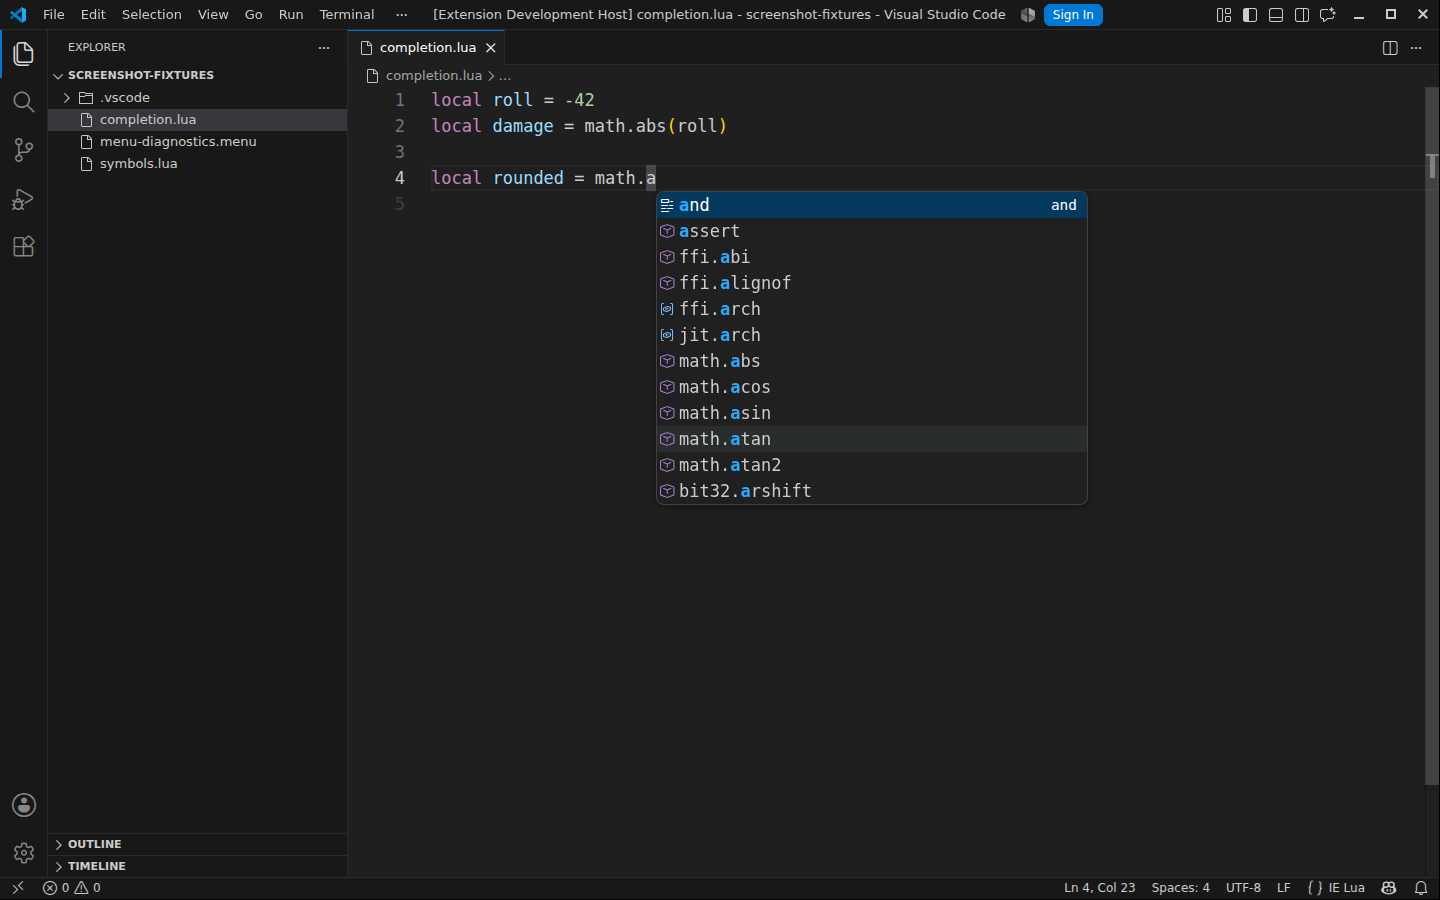
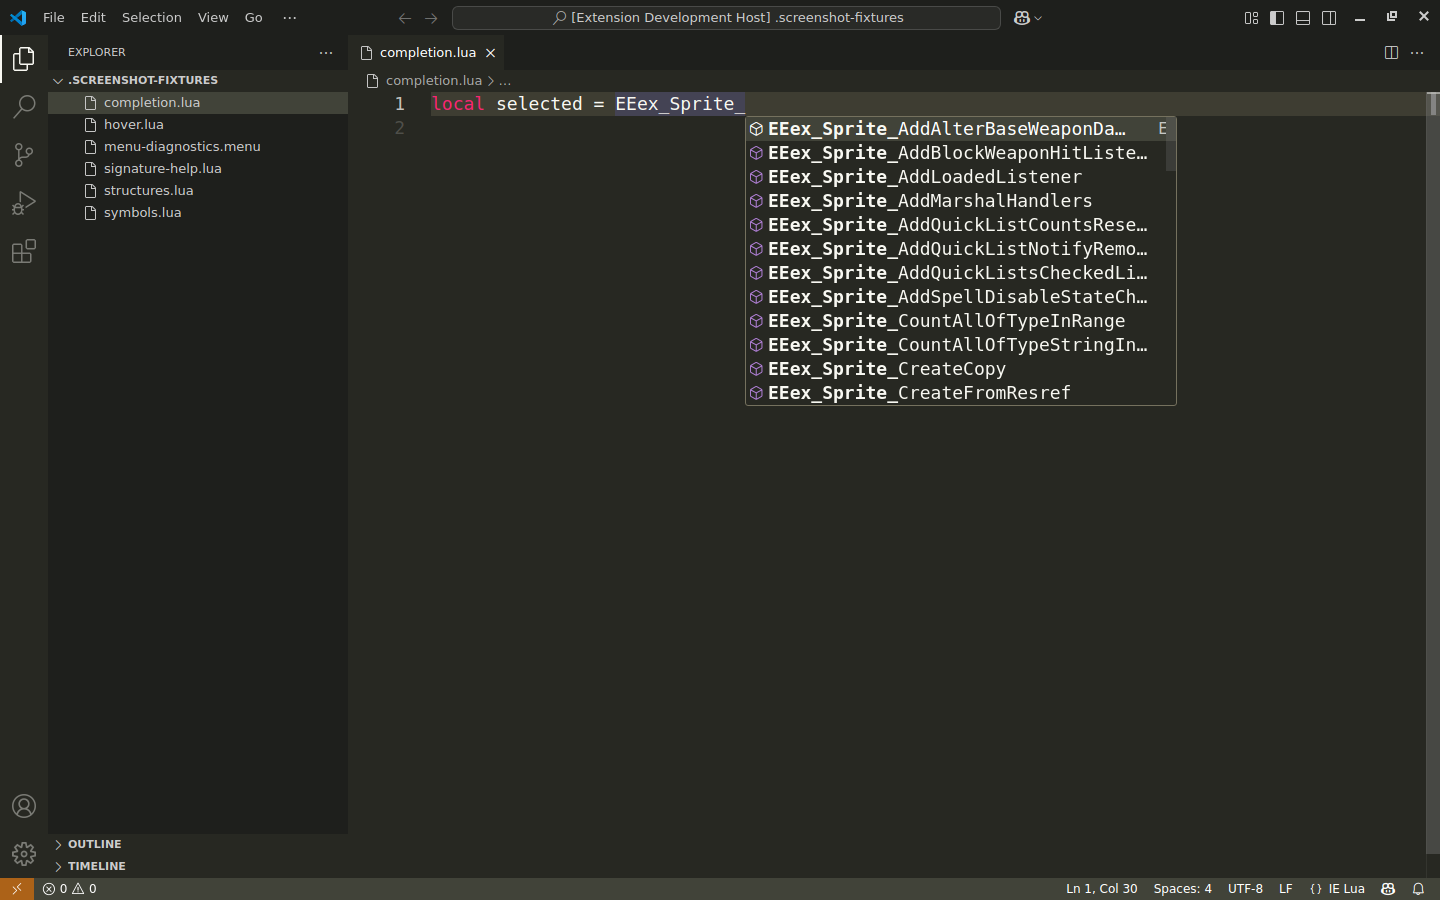
fix(docs): refresh official Monokai screenshots

diff --git a/packages/shared/src/api.ts b/packages/shared/src/api.ts
@@ -148,7 +148,7 @@ export function makeApiCallableView(
 export function makeDocumentation(symbol: ApiSymbol): string {
   const chunks: string[] = [`### \`${symbol.name}\``];
   if (symbol.signature) {
-    chunks.push('\\`\\`\\`lua', symbol.signature, '\\`\\`\\`');
+    chunks.push(`\`\`\`lua\n${symbol.signature}\n\`\`\``);
   }
 
   const layoutFacts: string[] = [];
@@ -167,7 +167,8 @@ export function makeDocumentation(symbol: ApiSymbol): string {
     layoutFacts.push(`**Fields:** ${symbol.memberCount}`);
   }
   if (layoutFacts.length > 0) {
-    chunks.push(layoutFacts.join('  \\n'));
+    // VS Code's Markdown renderer needs real line breaks; escaped "\\n" text is shown verbatim.
+    chunks.push(layoutFacts.join('  \n'));
   }
 
   if (symbol.documentationMarkdown) {
@@ -178,7 +179,7 @@ export function makeDocumentation(symbol: ApiSymbol): string {
     chunks.push('Narrative upstream documentation is permission-gated and is not bundled.');
   }
   chunks.push('---', `Source: [${symbol.upstreamUrl}](${symbol.upstreamUrl})`);
-  return chunks.join('\\n\\n');
+  return chunks.join('\n\n');
 }
 
 function resolveStructureName(

diff --git a/packages/server/src/server.ts b/packages/server/src/server.ts
@@ -257,7 +257,12 @@ connection.onSignatureHelp(async (params) => {
   };
   const parameters = callableView.parameters.map((parameter) => ({
     label: parameter.name,
-    ...(parameter.description ? { documentation: parameter.description } : {}),
+    ...(parameter.description
+      ? {
+          // Parameter descriptions contain upstream Markdown such as code spans and links.
+          documentation: { kind: 'markdown' as const, value: parameter.description },
+        }
+      : {}),
   }));
   if (parameters && parameters.length > 0) {
     Object.assign(signature, { parameters });

diff --git a/packages/shared/src/api.test.ts b/packages/shared/src/api.test.ts
@@ -163,6 +163,8 @@ void test('layout documentation includes factual field metadata and pinned sourc
   assert.match(documentation, /Offset:\*\* `0x1120`/u);
   assert.match(documentation, /Size:\*\* 3240 bytes/u);
   assert.match(documentation, /Narrative upstream documentation is permission-gated/u);
+  assert.match(documentation, /```lua\nm_derivedStats: const struct CDerivedStats \*\*\n```/u);
+  assert.doesNotMatch(documentation, /\\\\n/u);
 });
 
 function makeSymbol(

diff --git a/docs/screenshots/README.md b/docs/screenshots/README.md
@@ -14,7 +14,10 @@ The README screenshots are captured from the packaged extension in a real Visual
 
 3. Build the extension with Node.js 24 using `npm ci --no-audit --progress=false` and `npm run bundle`.
 4. Launch VS Code with `--extensionDevelopmentPath` pointing at this checkout, the temporary profile directories, and a non-proprietary fixture workspace.
-5. Set the window to 1440x900. Capture PNG images for function completion, function hover, embedded `.menu` diagnostics, and document symbols.
-6. Save the four images as `completion.png`, `hover.png`, `menu-diagnostics.png`, and `symbols.png` in this directory.
+5. Confirm that `workbench.colorTheme` resolves to exactly `Monokai` before capture; do not substitute a similarly named third-party theme.
+6. Set the window to 1440x900. Capture PNG images for EEex function completion, EEex hover documentation, EEex signature help, annotation-aware x64 structure member completion, embedded `.menu` diagnostics, and document symbols.
+7. Save the six images as `completion.png`, `hover.png`, `signature-help.png`, `structures.png`, `menu-diagnostics.png`, and `symbols.png` in this directory.
 
-The completion and hover fixtures should exercise generated EE/EEex function metadata, including parameters and official help text. Do not use game-distributed Lua or menu files as fixtures.
+Use generated EEex metadata for completion, hover, and signature-help fixtures. The x64 fixture must use a type annotation and complete members of the resolved structure instead of exposing fields globally. Wait for each expected language-server result before opening its Visual Studio Code UI and capturing the image.
+
+All fixtures must be purpose-built, non-proprietary snippets. Do not use game-distributed Lua or menu files.

diff --git a/CHANGELOG.md b/CHANGELOG.md
@@ -4,6 +4,22 @@ All notable changes to this project will be documented in this file.
 
 The format is based on Keep a Changelog, and this project adheres to Semantic Versioning.
 
+## [v0.5.2]
+
+### Added
+
+- Add dedicated README screenshots for EEex signature help and annotation-aware EE Game Structures (x64) member completion.
+
+### Changed
+
+- Refresh all README screenshots in Visual Studio Code's official built-in Monokai theme, with completion and hover now exercising generated EEex metadata.
+- Expand the reproducible capture recipe to verify the exact theme and expected language-server results before capturing all six feature views.
+
+### Fixed
+
+- Render API hover, completion, and signature documentation with real Markdown line breaks instead of displaying escaped newline text.
+- Render signature parameter descriptions as Markdown so code spans and links display correctly.
+
 ## [v0.5.1]
 
 ### Added

diff --git a/README.md b/README.md
@@ -37,13 +37,21 @@ The screenshots below were captured at 1440x900 from a real Visual Studio Code E
 <details>
 <summary><strong>View Visual Studio Code screenshots</strong></summary>
 
-### Completion
+### EEex Function Completion
 
-![Visual Studio Code completion suggestions](docs/screenshots/completion.png)
+![Visual Studio Code EEex function completion suggestions](docs/screenshots/completion.png)
 
-### Hover
+### EEex Hover Documentation
 
-![Visual Studio Code hover information](docs/screenshots/hover.png)
+![Visual Studio Code EEex hover documentation](docs/screenshots/hover.png)
+
+### Signature Help
+
+![Visual Studio Code EEex signature help](docs/screenshots/signature-help.png)
+
+### EE Game Structures (x64) Member Completion
+
+![Visual Studio Code annotation-aware x64 structure member completion](docs/screenshots/structures.png)
 
 ### Embedded `.menu` Diagnostics
 
